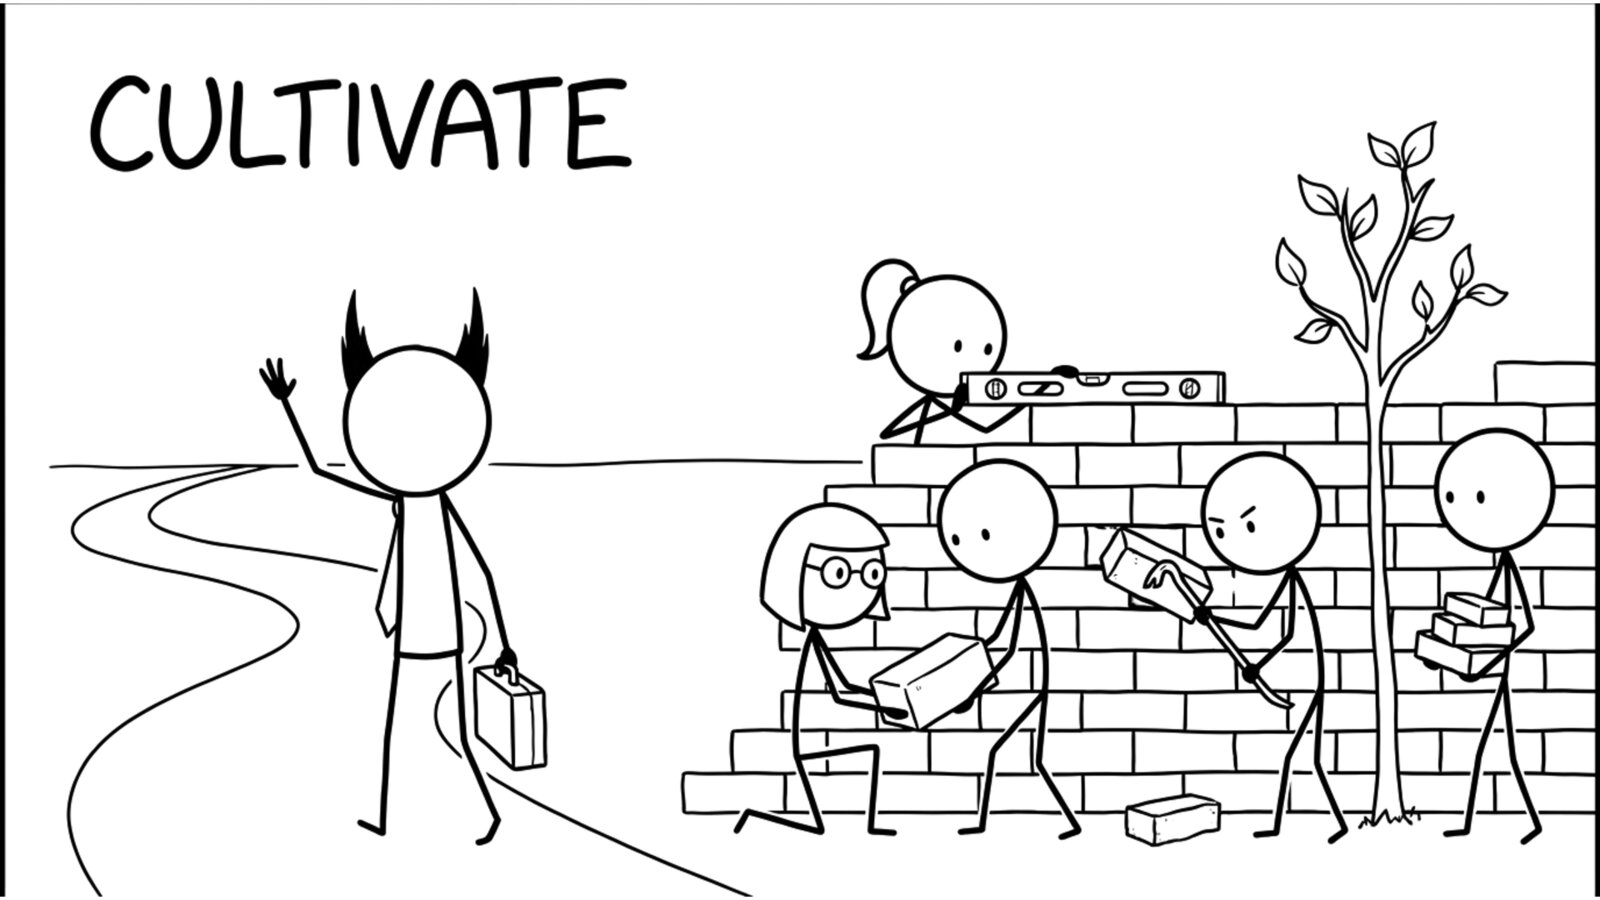
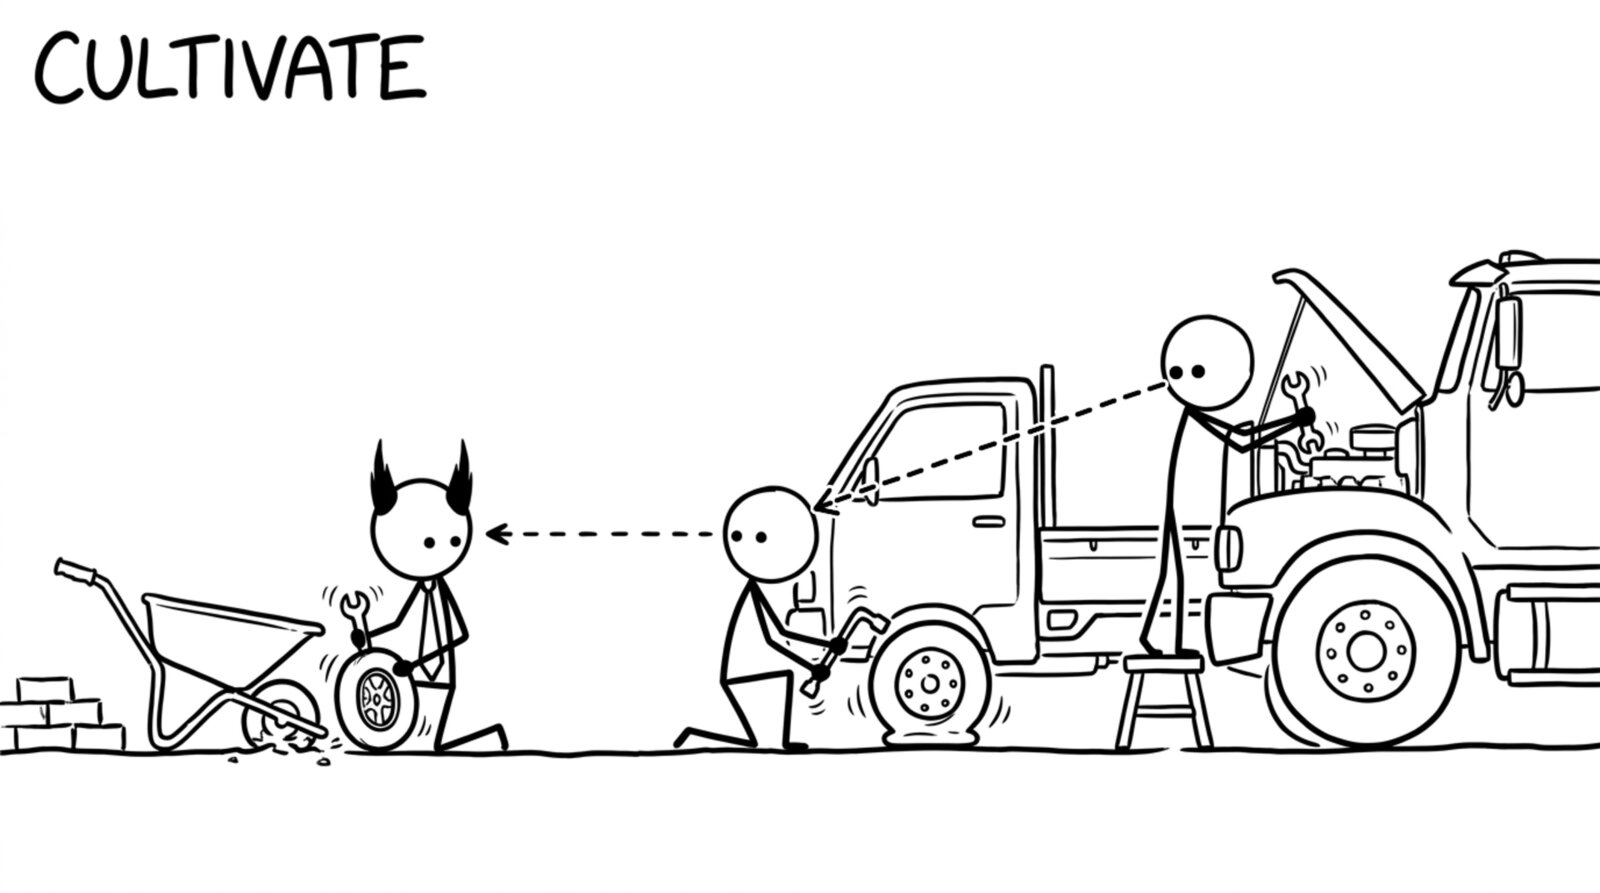
Winning vs capacity talk: new Cultivate slide (copy what I do)

Changed region(s): [[0.0, 0.0, 1.0, 0.9978], [0.3438, 0.9071, 0.4375, 0.9675], [0.4375, 0.9675, 0.4688, 0.9978]]

diff --git a/recipes/management/winning_vs_capacity/source/slides/cap-cultivate.html b/recipes/management/winning_vs_capacity/source/slides/cap-cultivate.html
@@ -1,5 +1,5 @@
 <section id="cap-cultivate" data-transition="fade" style="display:flex; align-items:center; justify-content:center; padding:0; background:#fcfcfa">
-<img src="../images/cap-cultivate.png" alt="Cultivate. The Manager walks off down the road with a suitcase, waving goodbye. Behind him, unwatched, the team keeps building a neat, straight wall: one checks it with a level, one helps lift a heavy brick, one pulls out a crooked brick to redo it. A young tree grows beside the wall." style="width:1920px; height:1080px; object-fit:contain; mix-blend-mode:multiply">
+<img src="../images/cap-cultivate-final.png" alt="Cultivate. Side view, three repairs in a row, each bigger than the last. On the left, the Manager kneels and fits a new wheel on a broken wheelbarrow. In the middle, an engineer changes the flat tire of a light truck, watching the Manager (a dashed sight line runs to him). On the right, a second engineer on a step stool fixes the engine of a heavy truck, watching the middle engineer (a dashed sight line runs to him)." style="width:1920px; height:1080px; object-fit:contain; mix-blend-mode:multiply">
 <p style="position:absolute;left:0;bottom:10px;width:1920px;margin:0;text-align:center;font-family:'Patrick Hand', 'Trebuchet MS', sans-serif;font-size:22px;color:#8a8f98">Copyright Dobromir Montauk 2026</p>
-<aside><b>Cultivate.</b> Culture is what happens when you're not in the room.<br>- Define it in a few words people can act on, like "Rigorously Get Shit Done": rigor, and done means the customer's problem is solved.<br>- Reward what you say you value. If you say quality but celebrate only speed, the team learns speed.<br>- Model it: the postmortem without blame starts with your own mistake.<br>- Hire and fire by it. Who you let in, and who you let stay, is the culture.<br>It's slow to build and fast to lose.</aside>
+<aside><b>Cultivate.</b> Culture is what people copy. Your team copies what you do, not what you say, and the next hire copies them, long after they've stopped watching you.<br>- You break prod: you write the postmortem, and it starts with your own mistake. Six months later, a junior engineer opens theirs the same way.<br>- You fix the flaky test instead of hitting re-run. Your tech lead stops re-running, and so does the new hire.<br>- You review PRs within a day, with a real comment, not just LGTM. That becomes the team's review bar.<br>- You say "I don't know, let me find out" in a design review. People stop bluffing.<br>Then make it explicit: a few words people can act on, like "Rigorously Get Shit Done". Reward what you say you value; if you say quality but celebrate only speed, the team copies speed. Hire and fire by it.<br>It's slow to build and fast to lose.</aside>
 </section>

diff --git a/recipes/management/winning_vs_capacity/README.md b/recipes/management/winning_vs_capacity/README.md
@@ -232,13 +232,14 @@ Copyright Dobromir Montauk 2026.
 > - AI agents on the repetitive work: test writing, migrations, triage.
 > Build it while you keep shipping. Stop delivering to build the perfect tool, and you lose the week and the trust.
 
-![Slide 32: Cultivate. The Manager walks off down the road with a suitcase, waving goodbye. Behind him, unwatched, the team keeps building a neat, straight wall: one checks it with a level, one helps lift a heavy brick, one pulls out a crooked brick to redo it. A young tree grows beside the wall.](slides/32.jpg)
+![Slide 32: Cultivate. Side view, three repairs in a row, each bigger than the last. On the left, the Manager kneels and fits a new wheel on a broken wheelbarrow. In the middle, an engineer changes the flat tire of a light truck, watching the Manager (a dashed sight line runs to him). On the right, a second engineer on a step stool fixes the engine of a heavy truck, watching the middle engineer (a dashed sight line runs to him).](slides/32.jpg)
 
-> Culture is what happens when you're not in the room.
-> - Define it in a few words people can act on, like "Rigorously Get Shit Done": rigor, and done means the customer's problem is solved.
-> - Reward what you say you value. If you say quality but celebrate only speed, the team learns speed.
-> - Model it: the postmortem without blame starts with your own mistake.
-> - Hire and fire by it. Who you let in, and who you let stay, is the culture.
+> Culture is what people copy. Your team copies what you do, not what you say, and the next hire copies them, long after they've stopped watching you.
+> - You break prod: you write the postmortem, and it starts with your own mistake. Six months later, a junior engineer opens theirs the same way.
+> - You fix the flaky test instead of hitting re-run. Your tech lead stops re-running, and so does the new hire.
+> - You review PRs within a day, with a real comment, not just LGTM. That becomes the team's review bar.
+> - You say "I don't know, let me find out" in a design review. People stop bluffing.
+> Then make it explicit: a few words people can act on, like "Rigorously Get Shit Done". Reward what you say you value; if you say quality but celebrate only speed, the team copies speed. Hire and fire by it.
 > It's slow to build and fast to lose.
 
 ![Slide 33: Ally. At a crossroads between our brick yard and a neighboring town, the Manager shakes hands with the town's leader, who wears a hat. The neighbor's truck, loaded with our bricks, drives along their highway toward flag B.](slides/33.jpg)

diff --git a/recipes/management/winning_vs_capacity/outline.md b/recipes/management/winning_vs_capacity/outline.md
@@ -345,13 +345,14 @@ Running analogy: move a ton of bricks from Point A to Point B. Build the team, a
 ### Cultivate
 
 32. **Cultivate** · Comic
-    - Comic: The Manager walks off down the road with a suitcase, waving goodbye. Behind him, unwatched, the team keeps building a neat, straight wall: one checks it with a level, one helps lift a heavy brick, one pulls out a crooked brick to redo it. A young tree grows beside the wall.
+    - Comic: Side view, three repairs in a row, each bigger than the last. The Manager fits a new wheel on a broken wheelbarrow; an engineer changes a light truck's flat tire while watching him; a second engineer fixes a heavy truck's engine while watching the first engineer. Dashed sight lines show who is copying whom.
     - Text: "CULTIVATE"
-    - Notes (talk track): Culture is what happens when you're not in the room.
-      - Define it in a few words people can act on, like "Rigorously Get Shit Done": rigor, and done means the customer's problem is solved.
-      - Reward what you say you value. If you say quality but celebrate only speed, the team learns speed.
-      - Model it: the postmortem without blame starts with your own mistake.
-      - Hire and fire by it. Who you let in, and who you let stay, is the culture.
+    - Notes (talk track): Culture is what people copy. Your team copies what you do, not what you say, and the next hire copies them, long after they've stopped watching you.
+      - You break prod: you write the postmortem, and it starts with your own mistake. Six months later, a junior engineer opens theirs the same way.
+      - You fix the flaky test instead of hitting re-run. Your tech lead stops re-running, and so does the new hire.
+      - You review PRs within a day, with a real comment, not just LGTM. That becomes the team's review bar.
+      - You say "I don't know, let me find out" in a design review. People stop bluffing.
+      - Then make it explicit: a few words people can act on, like "Rigorously Get Shit Done". Reward what you say you value; if you say quality but celebrate only speed, the team copies speed. Hire and fire by it.
       - It's slow to build and fast to lose.
 
 ### Ally
